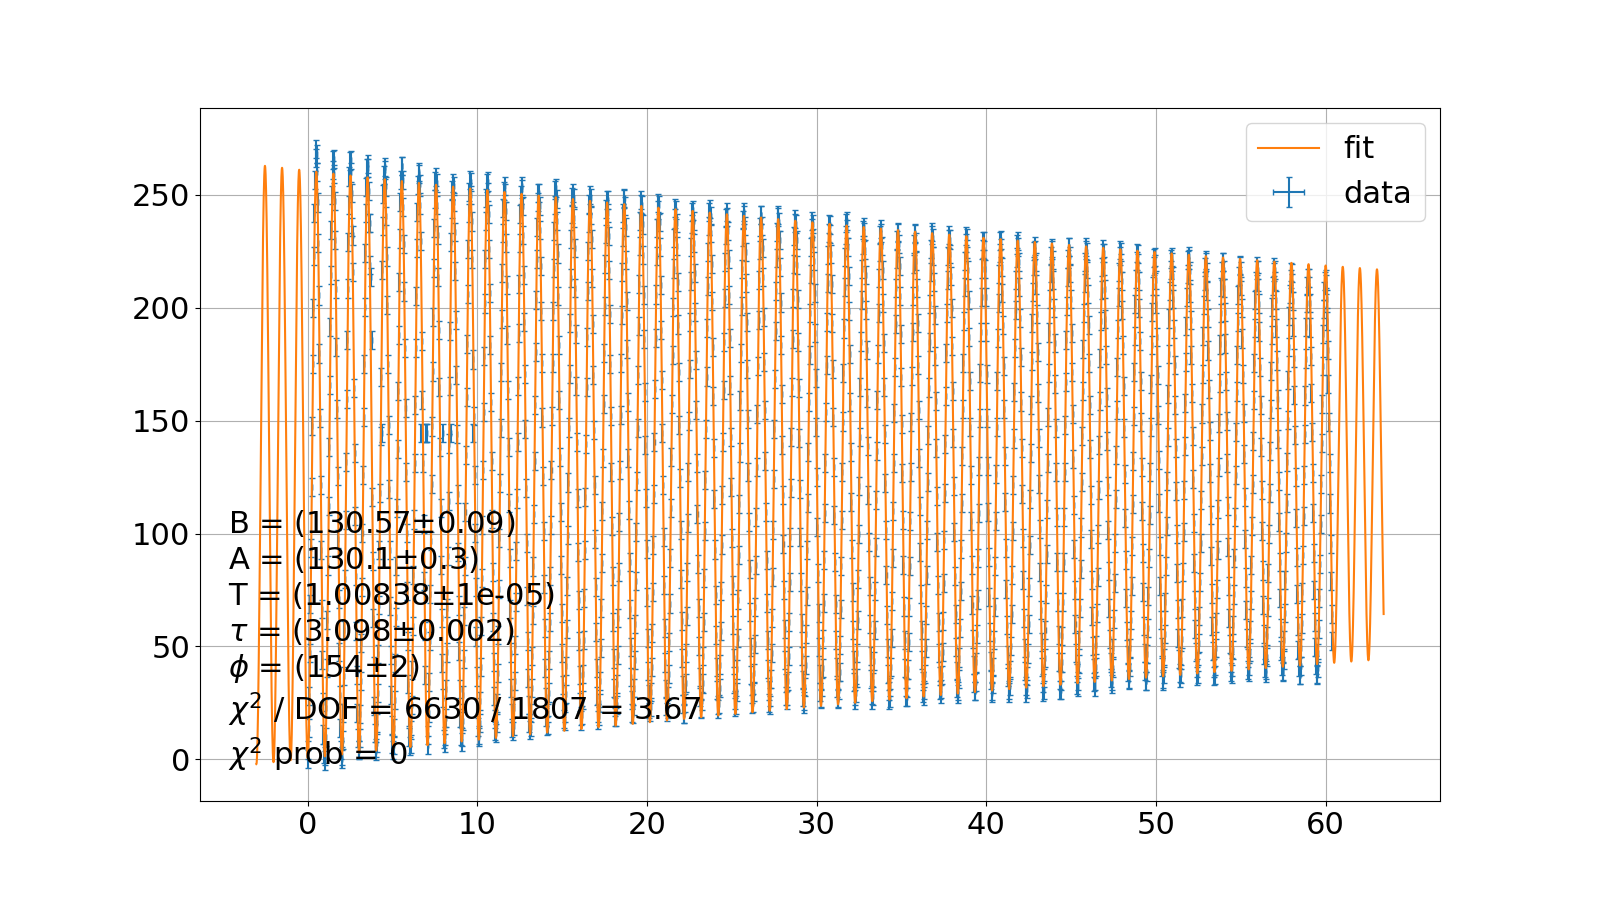
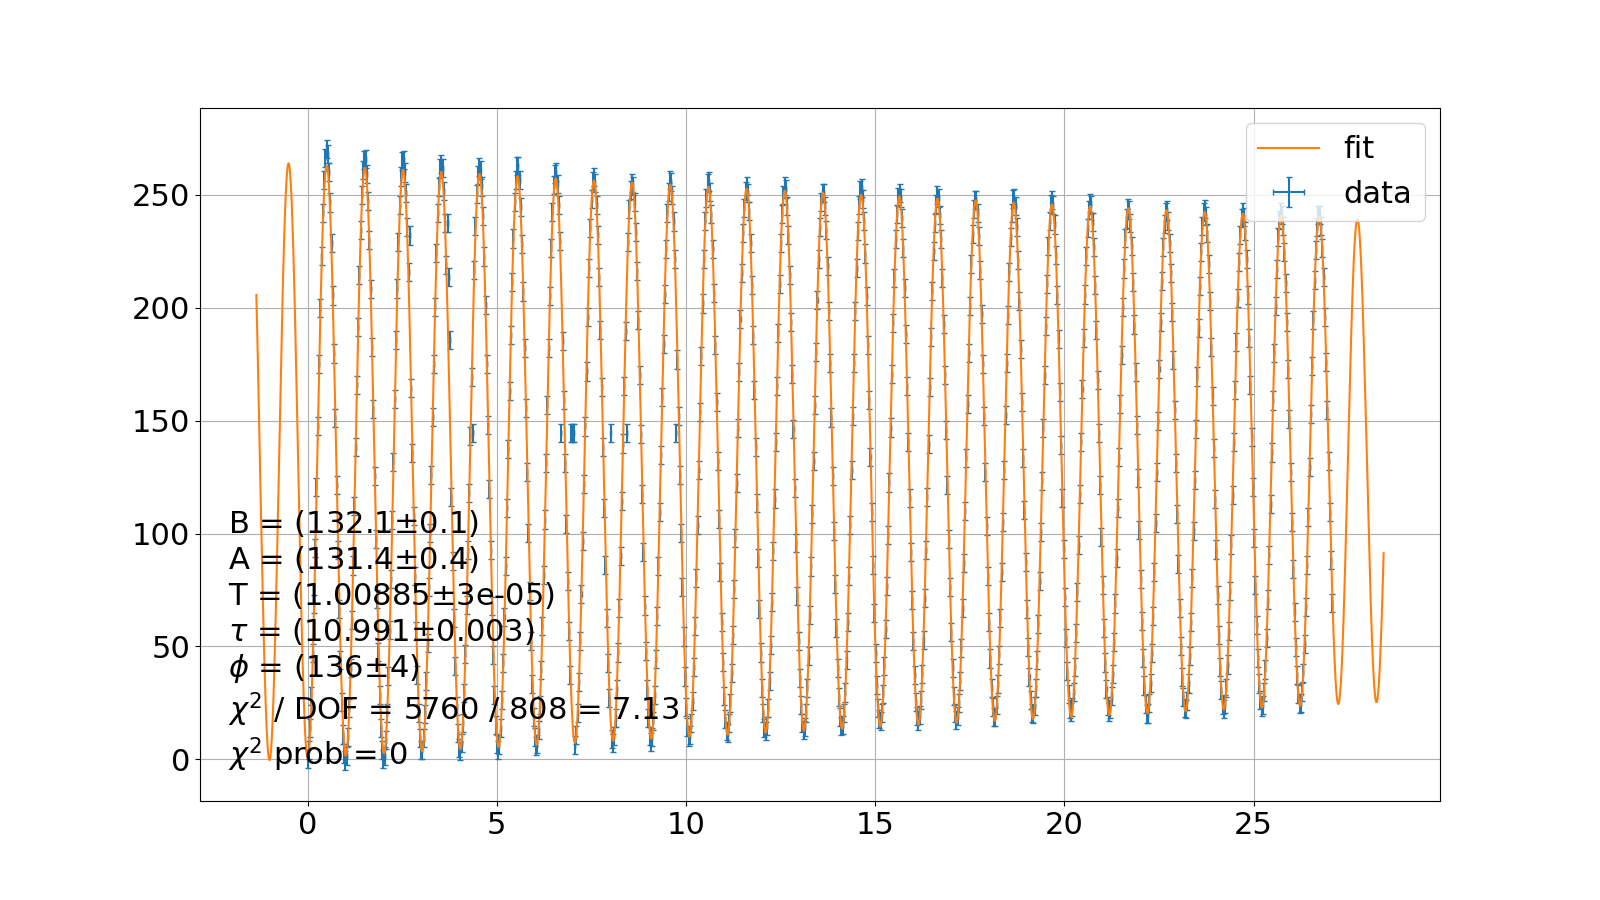
produces plots, although not all fit properly

diff --git a/main.py b/main.py
@@ -17,7 +17,7 @@ def run_main(filename, show=False, save=False):
     model = fit_models.DecayingSinusoid()
 
     fit = fitting.Fitting(model=model, x=data.x, x_error=data.x_error, y_measured=data.y, y_error=data.y_error,
-                          units_for_parameters=('', '', '', '', ''), p0=(150, 100, 1, 0, 50))
+                          units_for_parameters=('', '', '', '', ''), p0=(150, 100, 1, 10, 50))
 
     fig, ax = plt.subplots(1, 1, figsize=(16, 9))
 
@@ -33,7 +33,27 @@ def run_main(filename, show=False, save=False):
     if show:
         fig.show()
 
+def single_run_main(filename):
+    run_main(filename, show=True, save=True)
 
-filename = 'vary_angle_20deg'
+def run_main_from_dict(filenames):
+    for filename in filenames.values():
+        print(filename)
+        run_main(filename, show=False, save=True)
 
-run_main(filename, show=True, save=True)
+
+vary_angle_filenames = {angle : 'vary_angle_%s' % angle for angle in ['20deg', '40deg', '60deg', '80deg']}
+vary_l_filenames = {l : 'vary_l_%s' % l for l in ['15cm', '20cm', '25cm', '30cm', '35cm']}
+vary_m_filenames = {m : 'vary_m_%s' % m for m in ['50g', '100g', '150g', '200g']}
+
+print(vary_l_filenames)
+
+all_filenames = {**vary_angle_filenames, **vary_l_filenames, **vary_m_filenames}
+
+print(len(vary_angle_filenames), len(vary_l_filenames), len(vary_m_filenames))
+print(len(all_filenames))
+
+# filename = vary_angle_filenames['20cm']
+# single_run_main(filename)
+
+run_main_from_dict(all_filenames)

diff --git a/data_loader.py b/data_loader.py
@@ -8,7 +8,7 @@ class DataLoader():
         # directory = filename
         file = open(directory, 'r')
         raw_data = file.read()
-        raw_data = raw_data.split('\n')[2:-1]
+        raw_data = raw_data.split('\n')[2:-1000]
         raw_data = [row.split('\t') for row in raw_data]
         raw_data = [['0' if entry == '' else entry for entry in row] for row in raw_data]
         raw_data = [[float(entry) for entry in row] for row in raw_data]

diff --git a/fit_models.py b/fit_models.py
@@ -34,5 +34,5 @@ class DecayingSinusoid():
         self.CorrespondingFittedFunction = fitted_models.DecayingSinusoid
         
     def __call__(self, t, base, amplitude, period, phase, decay_constant):
-        result = base + np.exp(-t / decay_constant) * amplitude * np.cos((2*np.pi / period) * t + phase)
+        result = base + np.exp(-t / decay_constant) * amplitude * np.sin((2*np.pi / period) * t + phase)
         return result

diff --git a/fitting.py b/fitting.py
@@ -49,7 +49,7 @@ class Fitting():
             ax_text = AnchoredText(info_on_ax, loc='lower left', frameon=False, prop=dict(fontsize=info_fontsize))
             ax.add_artist(ax_text)
 
-        ax.legend()
+        ax.legend(loc='upper right')
 
     def plot_residuals(self, ax):
 
